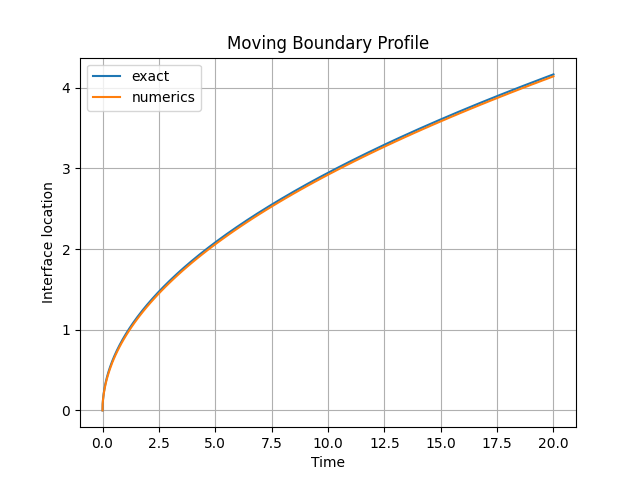
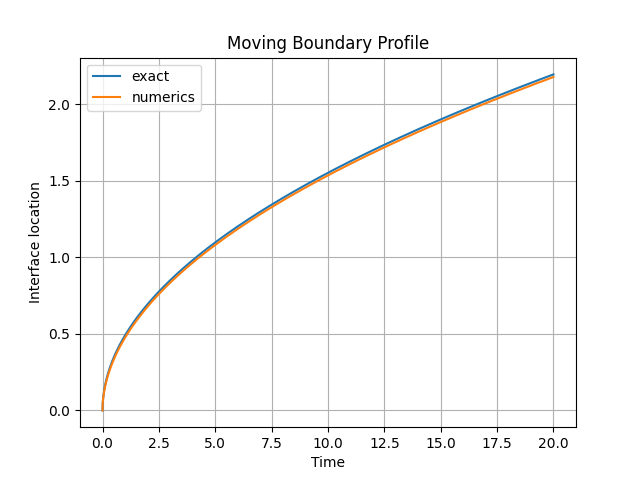
update

diff --git a/heat_stefan/test/test.py b/heat_stefan/test/test.py
@@ -1,10 +1,10 @@
 
-from model import numerics, exact, perturbation
+from model import numerics, exact, perturbation, parhizi
 from helpers.grapher import plot_compare_s, plot_compare_e
 
 bound_types = ['Dirichlet', 'Neumann', 'Robin']
 init_types = ['none','constant', 'linear', 'parabolic']
-method = ['exact', 'numerics', 'perturbation']
+method = ['exact', 'perturbation', 'parhizi']
 
 def compare_all_method(typ):    
     compare_methods(typ, method)
@@ -18,7 +18,7 @@ def compare_methods(typ, meths):
         u, s = func(bound)
         argss.append((s,meth))
         # argsu.append((u,meth))        
-    plot_compare_s(*argss, save = bound+'_compare.png')    
+    plot_compare_s(*argss, save = bound+'_compare.png')
     # plot_compare()
 
 def compare_with_init(typ, typ2):

diff --git a/heat_stefan/main.py b/heat_stefan/main.py
@@ -1,12 +1,14 @@
 from test import test
 
 if __name__ == "__main__":
+    # test.numerics_plot(1)
+    # test.compare_all_method(1)
     # test.compare_init(2)
-    # test.compare_methods(2, ['perturbation', 'numerics'])
+    test.compare_methods(0, ['exact', 'numerics'])
     # test.compare_with_init(2, 1)
     # for i in range(2):
     #     test.compare_with_init(i,2)
     # test.compare_init(0)
     # test.compare_perturbation_bound()
-    test.compare_differences(1)
+    # test.compare_differences(1)
     # test.numerics_plot(1)

diff --git a/heat_stefan/model/parhizi.py b/heat_stefan/model/parhizi.py
@@ -1,0 +1,18 @@
+import numpy as np
+from helpers.constants import *
+from helpers.grapher import plot_single_s
+
+
+def get_s(t):
+    tn = .5*np.sqrt(7)*((eps*a)**2)*t - np.arctan(1./np.sqrt(7))
+    return ((np.sqrt(7)*np.tan(tn)) + 1)/(4*eps*a)
+
+def main(bound, plot=False):
+    u = None  # TODO: function for u
+
+    s = np.zeros([nt])
+    for n in range(nt):
+        s[n] = get_s(n * dt)
+
+    if plot: plot_single_s(s)
+    return u, s

diff --git a/heat_stefan/helpers/constants.py b/heat_stefan/helpers/constants.py
@@ -8,9 +8,9 @@ L = 333.73
 rho = 1000.
 
 # problem domain
-l = 5.
+l = 10.
 T = 20.
-a = 1.
+a = 10.
 b = 0.
 r = 1.
 
@@ -24,10 +24,13 @@ zeta = K_1/(c_1*l**2*rho)
 t0 = T
 
 # discretization
-nx = 100
-nt = 100000
+nx = 280
+nt = 200000
+# nt = 50
 dx = l/nx
 dt = t0/nt
 
 print(dt/dx)
 print(eps)
+print(dx, dt)
+print(beta, gamma, eps, zeta, t0, U_)

diff --git a/heat_stefan/model/numerics.py b/heat_stefan/model/numerics.py
@@ -113,7 +113,7 @@ def main(bound, init="none", plot=False):
     if plot:
         case = bound+'-type Boundary Case'
         save = bound+'_'+init+'.png'
-        ts = np.array([0, round(nt/100), round(nt/2), nt-1])
+        ts = np.array([0, round(nt/10), round(nt/2), nt-1])
         plot_both(U, s, ts, case, bound)
     
     return U, s

diff --git a/heat_stefan/helpers/grapher.py b/heat_stefan/helpers/grapher.py
@@ -74,6 +74,7 @@ def plot_compare_s(*args, vary='color', save=None):
         if vary=='marker':
             kwargs['marker'] = marker_list[i]
             kwargs['linestyle'] = None
+            kwargs['color'] = 'k'
         elif vary == 'linestyle':
             kwargs['linestyle'] = linestyle_list[i]
         s, kwargs['label'] = data

diff --git a/heat_stefan/model/exact/neumann.py b/heat_stefan/model/exact/neumann.py
@@ -15,6 +15,10 @@ def get_s(start, end, step):
     res = solve_ivp(s_t, [start,end], [0.0001], t_eval=evals)
     return res
 
+def similarity():
+    res = solve_ivp(s_t, [0,T], [0.0001], t_eval=evals1)
+    return res
+
 # def get_u(x,t):
 #     c_1 = ...
 #     c_2 = -eps*a
